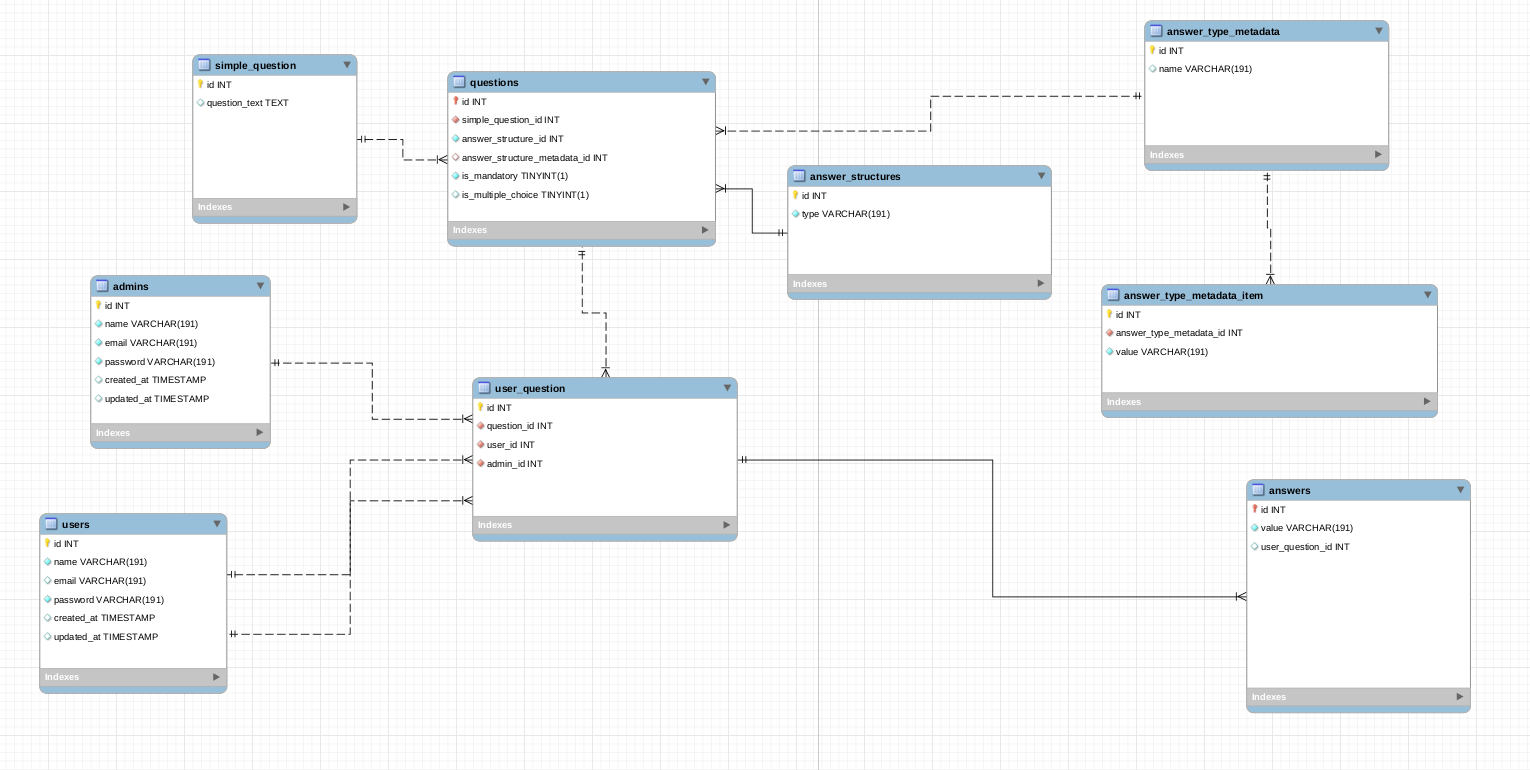
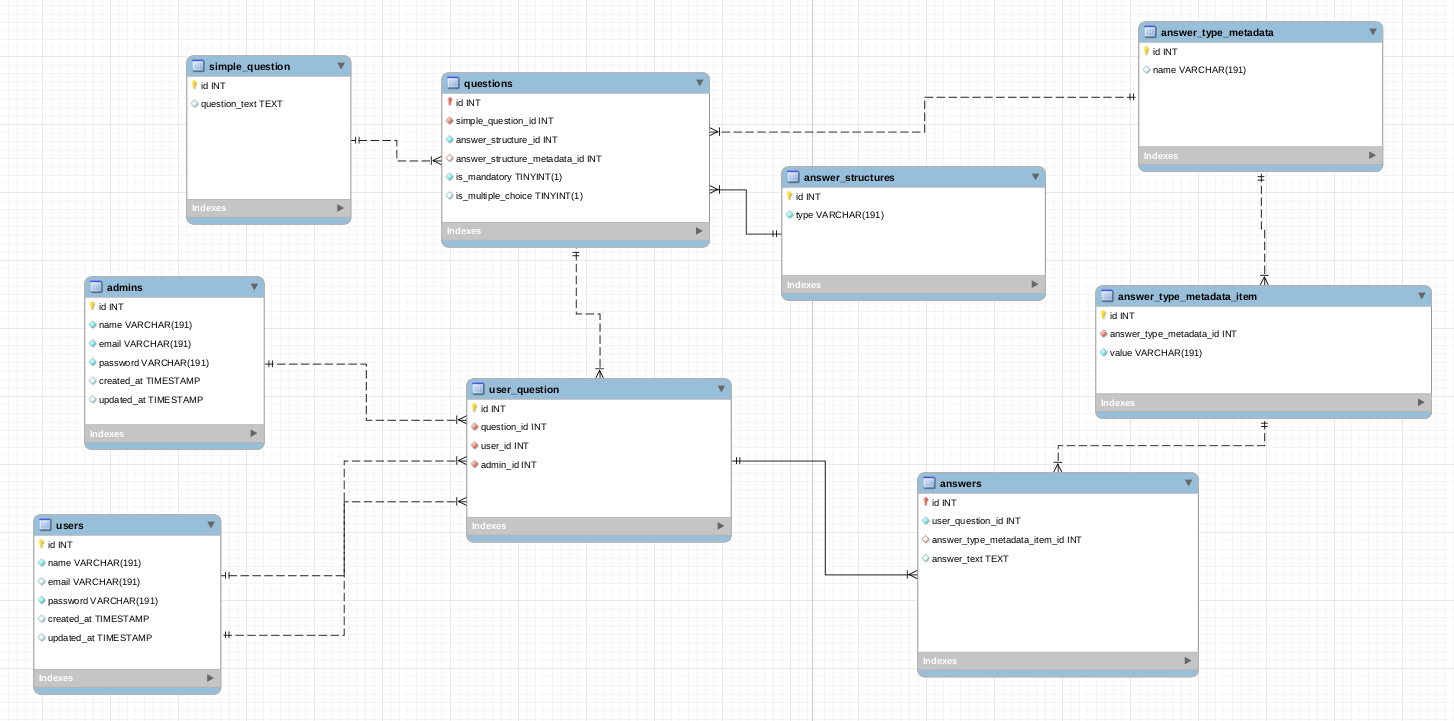
Added main migrations and a seeder for anser structures

diff --git a/database/migrations/2018_08_20_211851_create_questions_table.php b/database/migrations/2018_08_20_211851_create_questions_table.php
@@ -1,0 +1,40 @@
+<?php
+
+use Illuminate\Support\Facades\Schema;
+use Illuminate\Database\Schema\Blueprint;
+use Illuminate\Database\Migrations\Migration;
+
+class CreateQuestionsTable extends Migration
+{
+    /**
+     * Run the migrations.
+     *
+     * @return void
+     */
+    public function up()
+    {
+        Schema::create('questions', function (Blueprint $table) {
+            $table->increments('id');
+            $table->unsignedInteger('simple_question_id');
+            $table->unsignedInteger('answer_structure_id');
+            $table->unsignedInteger('answer_type_metadata_id')->nullable();
+            $table->boolean('is_mandatory')->default(0);
+            $table->boolean('is_multiple_choice')->default(0);
+            $table->timestamps();
+
+            $table->foreign('simple_question_id')->references('id')->on('simple_questions');
+            $table->foreign('answer_structure_id')->references('id')->on('answer_structures');
+            $table->foreign('answer_type_metadata_id')->references('id')->on('answer_type_metadata');
+        });
+    }
+
+    /**
+     * Reverse the migrations.
+     *
+     * @return void
+     */
+    public function down()
+    {
+        Schema::dropIfExists('questions');
+    }
+}

diff --git a/database/migrations/2018_08_20_205807_create_answer_type_metadata_items_table.php b/database/migrations/2018_08_20_205807_create_answer_type_metadata_items_table.php
@@ -4,7 +4,7 @@ use Illuminate\Support\Facades\Schema;
 use Illuminate\Database\Schema\Blueprint;
 use Illuminate\Database\Migrations\Migration;
 
-class CreateSimpleQuestionsTable extends Migration
+class CreateAnswerTypeMetadataItemsTable extends Migration
 {
     /**
      * Run the migrations.
@@ -13,10 +13,13 @@ class CreateSimpleQuestionsTable extends Migration
      */
     public function up()
     {
-        Schema::create('simple_questions', function (Blueprint $table) {
+        Schema::create('answer_type_metadata_items', function (Blueprint $table) {
             $table->increments('id');
-            $table->text('question_text');
+            $table->unsignedInteger('answer_type_metadata_id');
+            $table->string('value');
             $table->timestamps();
+
+            $table->foreign('answer_type_metadata_id')->references('id')->on('answer_type_metadata');
         });
     }
 
@@ -27,6 +30,6 @@ class CreateSimpleQuestionsTable extends Migration
      */
     public function down()
     {
-        Schema::dropIfExists('simple_questions');
+        Schema::dropIfExists('answer_type_metadata_items');
     }
 }

diff --git a/database/migrations/2018_08_20_202219_create_admins_table.php b/database/migrations/2018_08_20_202219_create_admins_table.php
@@ -4,7 +4,7 @@ use Illuminate\Support\Facades\Schema;
 use Illuminate\Database\Schema\Blueprint;
 use Illuminate\Database\Migrations\Migration;
 
-class CreateSimpleQuestionsTable extends Migration
+class CreateAdminsTable extends Migration
 {
     /**
      * Run the migrations.
@@ -13,9 +13,12 @@ class CreateSimpleQuestionsTable extends Migration
      */
     public function up()
     {
-        Schema::create('simple_questions', function (Blueprint $table) {
+        Schema::create('admins', function (Blueprint $table) {
             $table->increments('id');
-            $table->text('question_text');
+            $table->string('name');
+            $table->string('email')->unique();
+            $table->string('password');
+            $table->rememberToken();
             $table->timestamps();
         });
     }
@@ -27,6 +30,6 @@ class CreateSimpleQuestionsTable extends Migration
      */
     public function down()
     {
-        Schema::dropIfExists('simple_questions');
+        Schema::dropIfExists('admins');
     }
 }

diff --git a/database/seeds/AnswerStructures.php b/database/seeds/AnswerStructures.php
@@ -1,0 +1,43 @@
+<?php
+
+use Illuminate\Database\Seeder;
+use Carbon\Carbon;
+
+class AnswerStructures extends Seeder
+{
+    /**
+     * Run the database seeds.
+     *
+     * @return void
+     */
+    public function run()
+    {
+        DB::table('answer_structures')->insert([
+            [
+                'id' => 1,
+                'structure' => 'number',
+                'created_at' => Carbon::now()
+            ],
+            [
+                'id' => 2,
+                'structure' => 'text',
+                'created_at' => Carbon::now()
+            ],
+            [
+                'id' => 3,
+                'structure' => 'date',
+                'created_at' => Carbon::now()
+            ],
+            [
+                'id' => 4,
+                'structure' => 'radio',
+                'created_at' => Carbon::now()
+            ],
+            [
+                'id' => 5,
+                'structure' => 'drop-down',
+                'created_at' => Carbon::now()
+            ],
+        ]);
+    }
+}

diff --git a/database/migrations/2018_08_20_214514_create_user_questions_table.php b/database/migrations/2018_08_20_214514_create_user_questions_table.php
@@ -1,0 +1,38 @@
+<?php
+
+use Illuminate\Support\Facades\Schema;
+use Illuminate\Database\Schema\Blueprint;
+use Illuminate\Database\Migrations\Migration;
+
+class CreateUserQuestionsTable extends Migration
+{
+    /**
+     * Run the migrations.
+     *
+     * @return void
+     */
+    public function up()
+    {
+        Schema::create('user_questions', function (Blueprint $table) {
+            $table->increments('id');
+            $table->unsignedInteger('question_id');
+            $table->unsignedInteger('user_id');
+            $table->unsignedInteger('admin_id');
+            $table->timestamps();
+
+            $table->foreign('question_id')->references('id')->on('questions');
+            $table->foreign('user_id')->references('id')->on('users');
+            $table->foreign('admin_id')->references('id')->on('admins');
+        });
+    }
+
+    /**
+     * Reverse the migrations.
+     *
+     * @return void
+     */
+    public function down()
+    {
+        Schema::dropIfExists('user_questions');
+    }
+}

diff --git a/database/migrations/2018_08_20_202524_create_answer_structures_table.php b/database/migrations/2018_08_20_202524_create_answer_structures_table.php
@@ -4,7 +4,7 @@ use Illuminate\Support\Facades\Schema;
 use Illuminate\Database\Schema\Blueprint;
 use Illuminate\Database\Migrations\Migration;
 
-class CreateSimpleQuestionsTable extends Migration
+class CreateAnswerStructuresTable extends Migration
 {
     /**
      * Run the migrations.
@@ -13,9 +13,9 @@ class CreateSimpleQuestionsTable extends Migration
      */
     public function up()
     {
-        Schema::create('simple_questions', function (Blueprint $table) {
-            $table->increments('id');
-            $table->text('question_text');
+        Schema::create('answer_structures', function (Blueprint $table) {
+            $table->increments('id')->unsigned();
+            $table->string('structure');
             $table->timestamps();
         });
     }
@@ -27,6 +27,6 @@ class CreateSimpleQuestionsTable extends Migration
      */
     public function down()
     {
-        Schema::dropIfExists('simple_questions');
+        Schema::dropIfExists('answer_structures');
     }
 }

diff --git a/database/migrations/2018_08_20_220116_create_answers_table.php b/database/migrations/2018_08_20_220116_create_answers_table.php
@@ -1,0 +1,36 @@
+<?php
+
+use Illuminate\Support\Facades\Schema;
+use Illuminate\Database\Schema\Blueprint;
+use Illuminate\Database\Migrations\Migration;
+
+class CreateAnswersTable extends Migration
+{
+    /**
+     * Run the migrations.
+     *
+     * @return void
+     */
+    public function up()
+    {
+        Schema::create('answers', function (Blueprint $table) {
+            $table->increments('id');
+            $table->unsignedInteger('user_question_id');
+            $table->unsignedInteger('answer_type_metadata_item_id');
+            $table->timestamps();
+
+            $table->foreign('user_question_id')->references('id')->on('user_questions');
+            $table->foreign('answer_type_metadata_item_id')->references('id')->on('answer_type_metadata_items');
+        });
+    }
+
+    /**
+     * Reverse the migrations.
+     *
+     * @return void
+     */
+    public function down()
+    {
+        Schema::dropIfExists('answers');
+    }
+}

diff --git a/database/migrations/2018_08_20_205547_create_answer_type_metadata_table.php b/database/migrations/2018_08_20_205547_create_answer_type_metadata_table.php
@@ -4,7 +4,7 @@ use Illuminate\Support\Facades\Schema;
 use Illuminate\Database\Schema\Blueprint;
 use Illuminate\Database\Migrations\Migration;
 
-class CreateSimpleQuestionsTable extends Migration
+class CreateAnswerTypeMetadataTable extends Migration
 {
     /**
      * Run the migrations.
@@ -13,9 +13,9 @@ class CreateSimpleQuestionsTable extends Migration
      */
     public function up()
     {
-        Schema::create('simple_questions', function (Blueprint $table) {
+        Schema::create('answer_type_metadata', function (Blueprint $table) {
             $table->increments('id');
-            $table->text('question_text');
+            $table->string('name');
             $table->timestamps();
         });
     }
@@ -27,6 +27,6 @@ class CreateSimpleQuestionsTable extends Migration
      */
     public function down()
     {
-        Schema::dropIfExists('simple_questions');
+        Schema::dropIfExists('answer_type_metadata');
     }
 }

diff --git a/app/Models/Admin.php b/app/Models/Admin.php
@@ -1,0 +1,29 @@
+<?php
+
+namespace App;
+
+use Illuminate\Notifications\Notifiable;
+use Illuminate\Foundation\Auth\User as Authenticatable;
+
+class Admin extends Authenticatable
+{
+    use Notifiable;
+
+    /**
+     * The attributes that are mass assignable.
+     *
+     * @var array
+     */
+    protected $fillable = [
+        'name', 'email', 'password',
+    ];
+
+    /**
+     * The attributes that should be hidden for arrays.
+     *
+     * @var array
+     */
+    protected $hidden = [
+        'password', 'remember_token',
+    ];
+}

diff --git a/database/seeds/DatabaseSeeder.php b/database/seeds/DatabaseSeeder.php
@@ -11,6 +11,6 @@ class DatabaseSeeder extends Seeder
      */
     public function run()
     {
-        // $this->call(UsersTableSeeder::class);
+        $this->call(AnswerStructures::class);
     }
 }

diff --git a/app/Models/AnswerTypeMetadata.php b/app/Models/AnswerTypeMetadata.php
@@ -1,0 +1,10 @@
+<?php
+
+namespace App;
+
+use Illuminate\Database\Eloquent\Model;
+
+class AnswerTypeMetadata extends Model
+{
+    protected $table = 'answer_type_metadata';
+}

diff --git a/app/Models/AnswerTypeMetadataItem.php b/app/Models/AnswerTypeMetadataItem.php
@@ -1,0 +1,10 @@
+<?php
+
+namespace App;
+
+use Illuminate\Database\Eloquent\Model;
+
+class AnswerTypeMetadataItem extends Model
+{
+    //
+}
